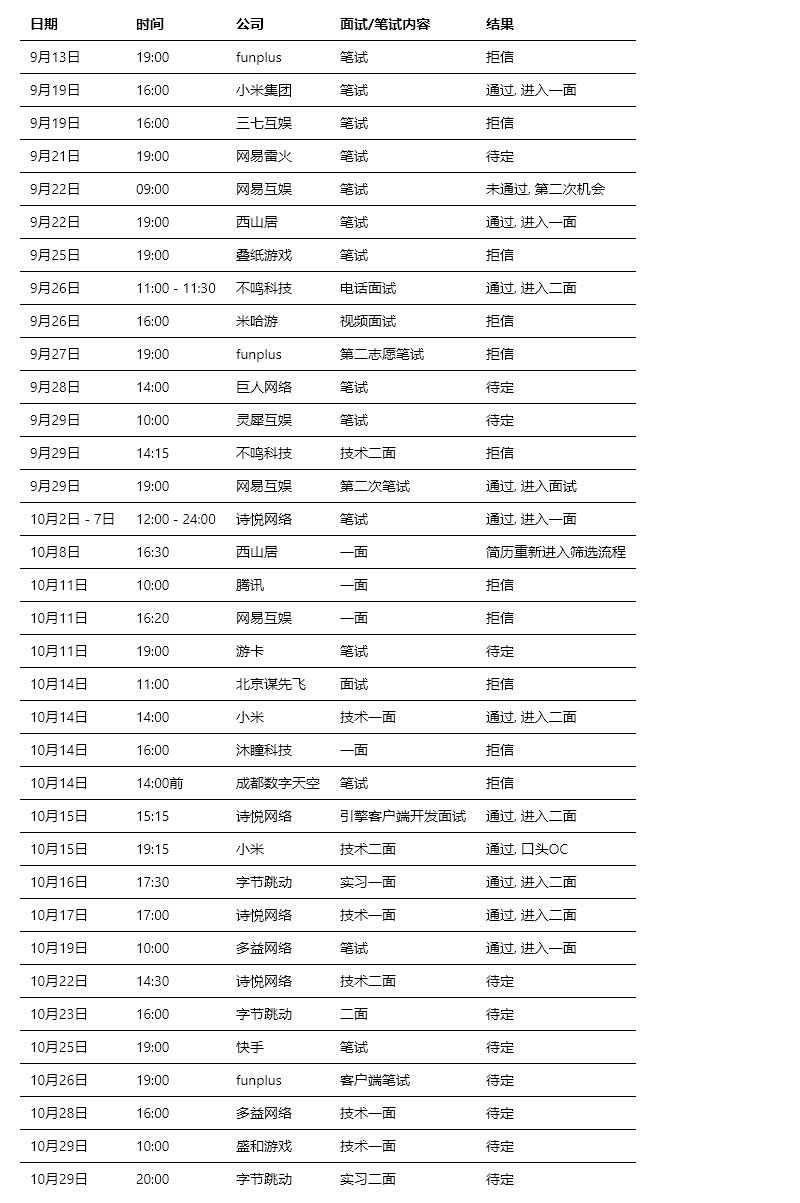
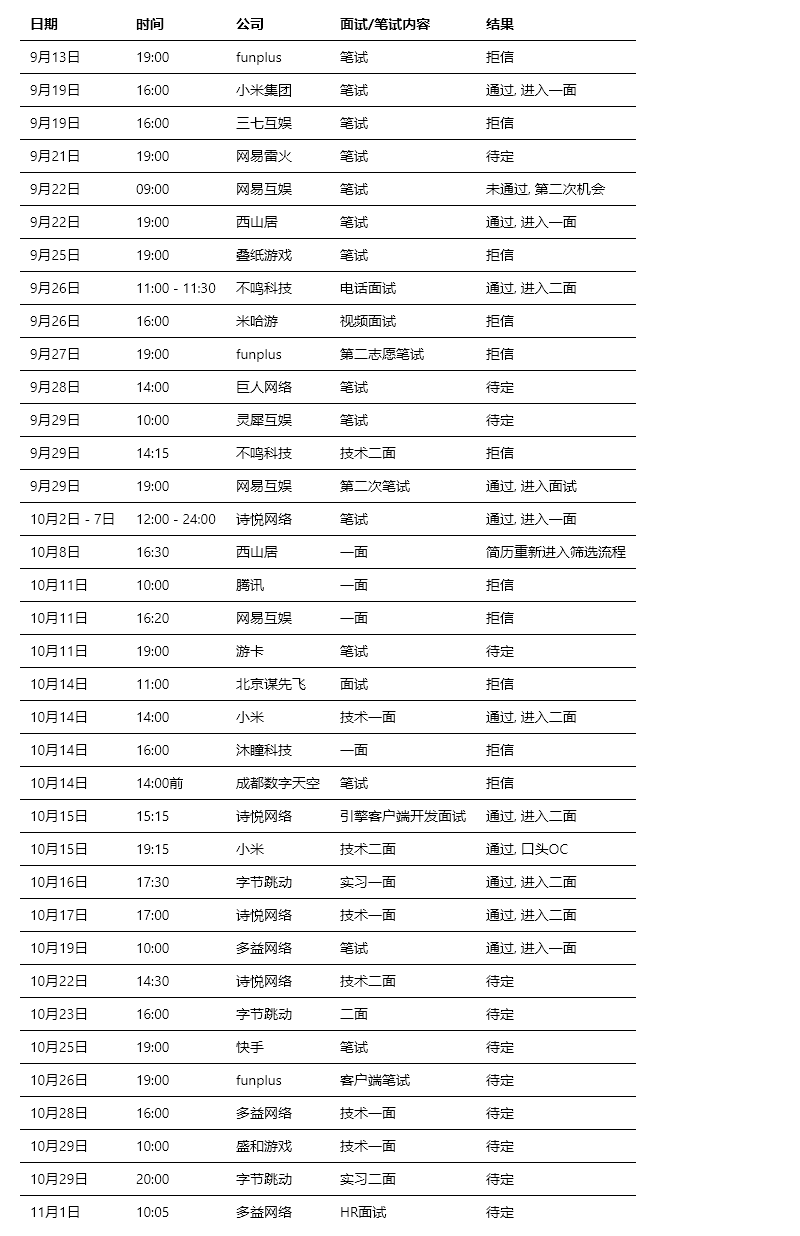
Update Interview Time line

Changed region(s): [[0.0312, 0.0, 0.7812, 0.9842]]

diff --git a/Interview And CodingTest/TimeLine.md b/Interview And CodingTest/TimeLine.md
@@ -5,7 +5,7 @@
 | 9月19日       | 16:00           | 三七互娱               | 笔试                             | 拒信        |
 | 9月21日       | 19:00           | 网易雷火               | 笔试                             | 待定        |
 | 9月22日       | 09:00           | 网易互娱               | 笔试                             | 未通过, 第二次机会|
-| 9月22日       | 19:00           | 西山居                 | 笔试                             | 通过, 进入一面        |
+| 9月22日       | 19:00           | 西山居                 | 笔试                             | 通过, 进入一面|
 | 9月25日       | 19:00           | 叠纸游戏               | 笔试                             | 拒信        |
 | 9月26日       | 11:00 - 11:30   | 不鸣科技               | 电话面试                         | 通过, 进入二面|
 | 9月26日       | 16:00           | 米哈游                 | 视频面试                         | 拒信           |
@@ -28,10 +28,12 @@
 | 10月16日      | 17:30           | 字节跳动               | 实习一面                         | 通过, 进入二面|
 | 10月17日      | 17:00           | 诗悦网络               | 技术一面                         | 通过, 进入二面|
 | 10月19日      | 10:00           | 多益网络               | 笔试                             | 通过, 进入一面|
-| 10月22日      | 14:30           | 诗悦网络               | 技术二面                         | 待定        |
-| 10月23日      | 16:00           | 字节跳动               | 二面                             | 待定        |
+| 10月22日      | 14:30           | 诗悦网络               | 技术二面                         | 一直没消息, 询问后得知不合适|
+| 10月23日      | 16:00           | 字节跳动               | 实习二面                         | 待定        |
 | 10月25日      | 19:00           | 快手                   | 笔试                             | 待定        |
 | 10月26日      | 19:00           | funplus                | 客户端笔试                       | 待定        |
-| 10月28日      | 16:00           | 多益网络               | 技术一面                         | 待定        |
+| 10月28日      | 16:00           | 多益网络               | 技术一面                         | 通过, 进入HR面试|
 | 10月29日      | 10:00           | 盛和游戏               | 技术一面                         | 待定        |
 | 10月29日      | 20:00           | 字节跳动               | 实习二面                         | 待定        |
+| 11月1日       | 10:05           | 多益网络               | HR面试                           | 待定        |
+| 11月3日       | 14:00           | 网易雷火               | 客户端笔试                        | 待定        |
